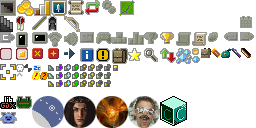
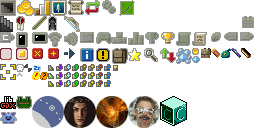
v1.3.0: improved visuals for new game options menu

Changed region(s): [[0.5625, 0.25, 0.6875, 0.3438], [0.9375, 0.125, 1.0, 0.2188], [0.8125, 0.25, 0.875, 0.3438]]

diff --git a/core/src/main/java/com/shatteredpixel/shatteredpixeldungeon/ui/Icons.java b/core/src/main/java/com/shatteredpixel/shatteredpixeldungeon/ui/Icons.java
@@ -199,10 +199,10 @@ public enum Icons {
 				icon.frame( icon.texture.uvRectBySize( 128, 32, 16, 13 ) );
 				break;
 			case CHALLENGE_OFF:
-				icon.frame( icon.texture.uvRectBySize( 144, 32, 14, 12 ) );
+				icon.frame( icon.texture.uvRectBySize( 144, 32, 15, 12 ) );
 				break;
 			case CHALLENGE_ON:
-				icon.frame( icon.texture.uvRectBySize( 160, 32, 14, 12 ) );
+				icon.frame( icon.texture.uvRectBySize( 160, 32, 15, 12 ) );
 				break;
 			case RENAME_OFF:
 				icon.frame( icon.texture.uvRectBySize( 176, 32, 15, 14 ) );
@@ -211,7 +211,7 @@ public enum Icons {
 				icon.frame( icon.texture.uvRectBySize( 192, 32, 15, 14 ) );
 				break;
 			case SEED:
-				icon.frame( icon.texture.uvRectBySize( 208, 32, 10, 10 ) );
+				icon.frame( icon.texture.uvRectBySize( 208, 32, 15, 10 ) );
 				break;
 			case LEFTARROW:
 				icon.frame( icon.texture.uvRectBySize( 224, 32, 14, 8 ) );
@@ -220,7 +220,7 @@ public enum Icons {
 				icon.frame( icon.texture.uvRectBySize( 240, 32, 14, 8 ) );
 				break;
 			case CALENDAR:
-				icon.frame( icon.texture.uvRectBySize( 240, 16, 12, 12 ) );
+				icon.frame( icon.texture.uvRectBySize( 240, 16, 15, 12 ) );
 				break;
 
 			case UNCHECKED:

diff --git a/core/src/main/java/com/shatteredpixel/shatteredpixeldungeon/scenes/HeroSelectScene.java b/core/src/main/java/com/shatteredpixel/shatteredpixeldungeon/scenes/HeroSelectScene.java
@@ -242,8 +242,10 @@ public class HeroSelectScene extends PixelScene {
 	}
 
 	private void updateOptionsColor(){
-		if (!SPDSettings.customSeed().isEmpty() || SPDSettings.challenges() != 0) {
+		if (!SPDSettings.customSeed().isEmpty()){
 			btnOptions.icon().hardlight(1f, 1.5f, 0.67f);
+		} else if (SPDSettings.challenges() != 0){
+			btnOptions.icon().hardlight(2f, 1.5f, 0.5f);
 		} else {
 			btnOptions.icon().resetColor();
 		}
